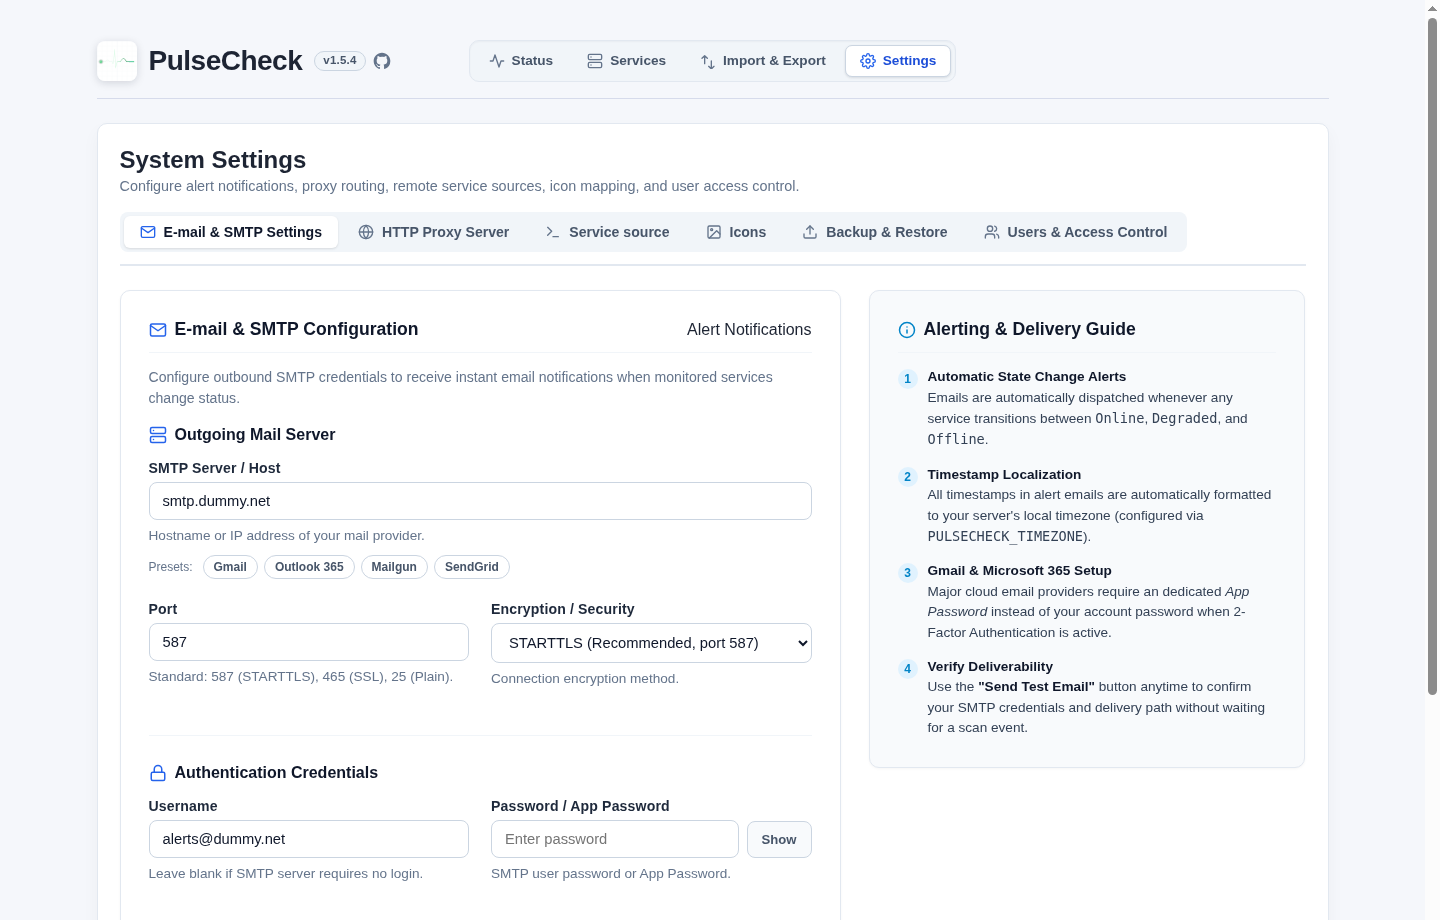
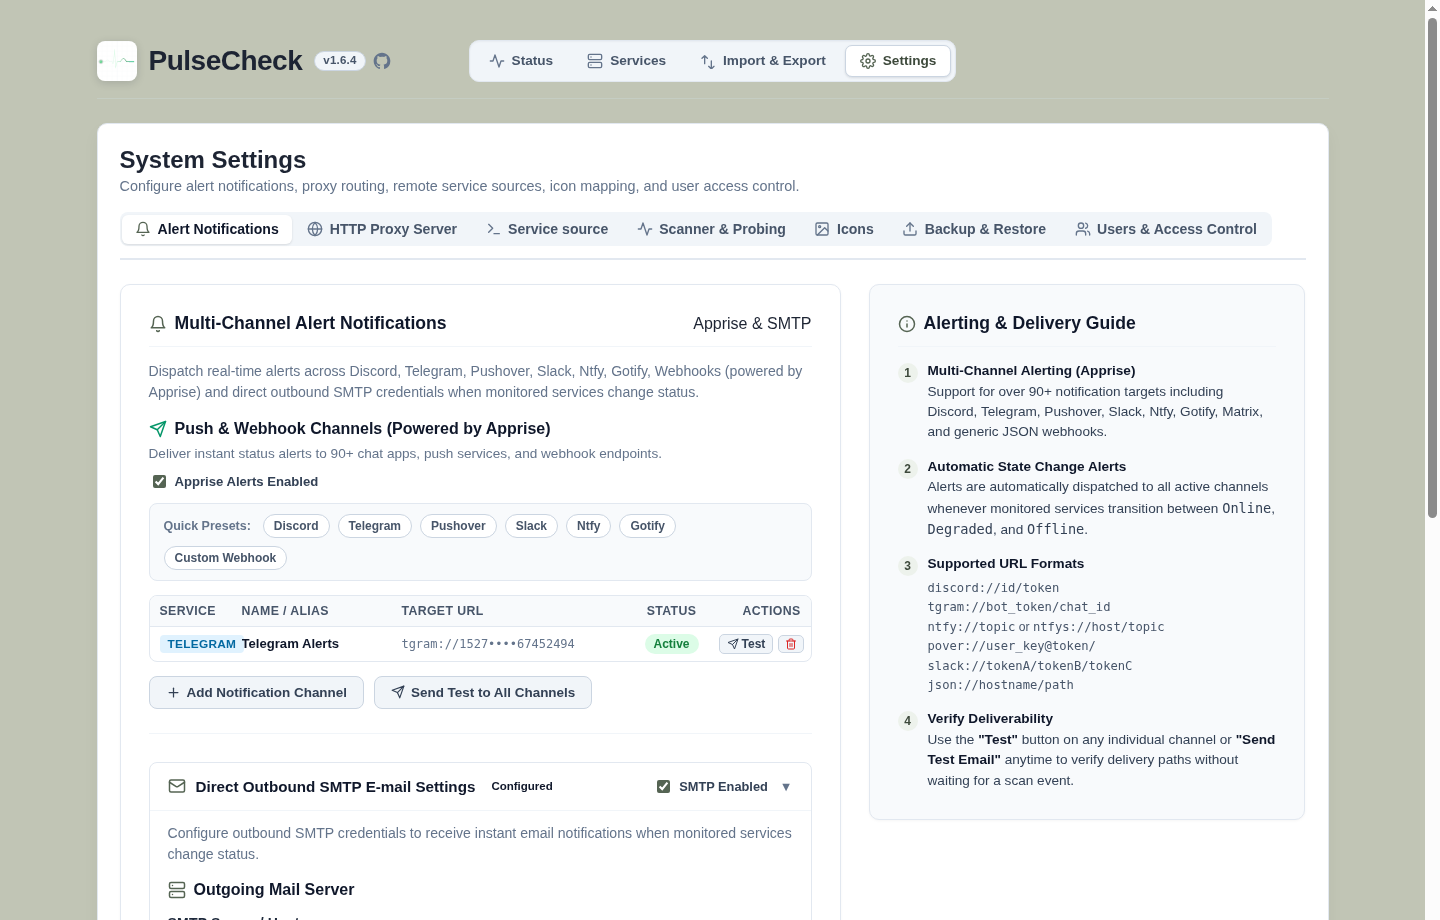
docs: update documentation, screenshots, and feature descriptions for recent UI and alert enhancements

diff --git a/services/notifications.py b/services/notifications.py
@@ -72,15 +72,15 @@ def send_email(
 </head>
 <body style="margin: 0; padding: 24px 16px; font-family: -apple-system, BlinkMacSystemFont, 'Segoe UI', Roboto, Helvetica, Arial, sans-serif; background-color: #f5f7fb; color: #1d2433;">
   <div style="max-width: 600px; margin: 0 auto; background: #ffffff; border-radius: 12px; border: 1px solid #c5cdc3; overflow: hidden; box-shadow: 0 4px 12px rgba(0, 0, 0, 0.05);">
-    <div style="background: #0f172a; padding: 16px 24px;">
+    <div style="background: #556453; padding: 16px 24px;">
       <table cellpadding="0" cellspacing="0" border="0" style="vertical-align: middle;">
         <tr>
           <td width="28" style="width: 28px; vertical-align: middle; padding-right: 10px;">
-            <img src="cid:pulsecheck_logo" alt="PulseCheck Logo" width="28" height="28" style="display: block; width: 28px !important; height: 28px !important; max-width: 28px !important; max-height: 28px !important; border-radius: 6px;" />
+            <img src="cid:pulsecheck_logo" alt="PulseCheck Logo" width="28" height="28" style="display: block; width: 28px !important; height: 28px !important; max-width: 28px !important; max-height: 28px !important; border-radius: 6px; background: #ffffff; padding: 2px; box-sizing: border-box;" />
           </td>
           <td style="vertical-align: middle;">
             <span style="color: #ffffff; font-size: 18px; font-weight: 700; letter-spacing: -0.3px; vertical-align: middle;">PulseCheck</span>
-            <span style="display: inline-block; margin-left: 8px; font-size: 11px; font-weight: 600; color: #94a3b8; background: rgba(255, 255, 255, 0.1); border: 1px solid rgba(255, 255, 255, 0.15); padding: 2px 6px; border-radius: 4px; vertical-align: middle;">v{APP_VERSION}</span>
+            <span style="display: inline-block; margin-left: 8px; font-size: 11px; font-weight: 600; color: #ffffff; background: rgba(0, 0, 0, 0.18); border: 1px solid rgba(255, 255, 255, 0.25); padding: 2px 6px; border-radius: 4px; vertical-align: middle;">v{APP_VERSION}</span>
           </td>
         </tr>
       </table>
@@ -468,7 +468,7 @@ def send_state_change_notification(changes: list[dict]) -> tuple[bool, str]:
 
             # Service name header with optional web URL
             if web_url:
-                svc_title_html = f'<a href="{web_url}" target="_blank" rel="noopener noreferrer" style="font-size: 16px; font-weight: 700; color: #556453; text-decoration: none; margin-right: 8px; vertical-align: middle;">{target_name}</a>'
+                svc_title_html = f'<a href="{web_url}" target="_blank" rel="noopener noreferrer" style="font-size: 16px; font-weight: 700; color: #3d493b; text-decoration: none; margin-right: 8px; vertical-align: middle;">{target_name}</a>'
             else:
                 svc_title_html = f'<strong style="font-size: 16px; color: #0f172a; margin-right: 8px; vertical-align: middle;">{target_name}</strong>'
 
@@ -525,15 +525,15 @@ def send_state_change_notification(changes: list[dict]) -> tuple[bool, str]:
 </head>
 <body style="margin: 0; padding: 24px 16px; font-family: -apple-system, BlinkMacSystemFont, 'Segoe UI', Roboto, Helvetica, Arial, sans-serif; background-color: #f5f7fb; color: #1d2433;">
   <div style="max-width: 600px; margin: 0 auto; background: #ffffff; border-radius: 12px; border: 1px solid #c5cdc3; overflow: hidden; box-shadow: 0 4px 12px rgba(0, 0, 0, 0.05);">
-    <div style="background: #0f172a; padding: 16px 24px;">
+    <div style="background: #556453; padding: 16px 24px;">
       <table cellpadding="0" cellspacing="0" border="0" style="vertical-align: middle;">
         <tr>
           <td width="28" style="width: 28px; vertical-align: middle; padding-right: 10px;">
-            <img src="cid:pulsecheck_logo" alt="PulseCheck Logo" width="28" height="28" style="display: block; width: 28px !important; height: 28px !important; max-width: 28px !important; max-height: 28px !important; border-radius: 6px;" />
+            <img src="cid:pulsecheck_logo" alt="PulseCheck Logo" width="28" height="28" style="display: block; width: 28px !important; height: 28px !important; max-width: 28px !important; max-height: 28px !important; border-radius: 6px; background: #ffffff; padding: 2px; box-sizing: border-box;" />
           </td>
           <td style="vertical-align: middle;">
             <span style="color: #ffffff; font-size: 18px; font-weight: 700; letter-spacing: -0.3px; vertical-align: middle;">PulseCheck</span>
-            <span style="display: inline-block; margin-left: 8px; font-size: 11px; font-weight: 600; color: #94a3b8; background: rgba(255, 255, 255, 0.1); border: 1px solid rgba(255, 255, 255, 0.15); padding: 2px 6px; border-radius: 4px; vertical-align: middle;">v{APP_VERSION}</span>
+            <span style="display: inline-block; margin-left: 8px; font-size: 11px; font-weight: 600; color: #ffffff; background: rgba(0, 0, 0, 0.18); border: 1px solid rgba(255, 255, 255, 0.25); padding: 2px 6px; border-radius: 4px; vertical-align: middle;">v{APP_VERSION}</span>
           </td>
         </tr>
       </table>
@@ -544,7 +544,7 @@ def send_state_change_notification(changes: list[dict]) -> tuple[bool, str]:
       <p style="margin: 0 0 16px 0; font-size: 14px; color: #334155;">The following <strong>{count}</strong> service{'s have' if count > 1 else ' has'} changed state since the previous scan:</p>
       {service_cards_str}
       <div style="margin-top: 20px; text-align: center;">
-        <a href="{get_status_url()}" style="display: inline-block; background: #1145d6; color: #ffffff; text-decoration: none; padding: 10px 20px; border-radius: 6px; font-weight: 600; font-size: 14px;">View Live Status</a>
+        <a href="{get_status_url()}" style="display: inline-block; background: #556453; color: #ffffff; text-decoration: none; padding: 10px 20px; border-radius: 6px; font-weight: 600; font-size: 14px;">View Live Status</a>
       </div>
     </div>
     <div style="background: #f8fafc; padding: 14px 24px; border-top: 1px solid #e2e8f0; font-size: 12px; color: #64748b; text-align: center; line-height: 1.5;">

diff --git a/scripts/capture_screenshots.py b/scripts/capture_screenshots.py
@@ -160,11 +160,14 @@ env = os.environ.copy()
 env["PULSECHECK_HEADLESS"] = "1"
 env["PULSECHECK_DB_PATH"] = DEMO_DB
 env["PULSECHECK_PORT"] = "8189"
+env["PULSECHECK_SCAN_RETRIES"] = "0"
+env["PULSECHECK_SCAN_RETRY_INTERVAL"] = "0"
+env["PULSECHECK_SCAN_WORKERS"] = "20"
 flask_proc = subprocess.Popen([sys.executable, "app.py"], cwd=BASE_DIR, env=env, stdout=subprocess.DEVNULL, stderr=subprocess.DEVNULL)
-time.sleep(2.5)
+time.sleep(2.0)
 
 # Wait for Flask
-for _ in range(20):
+for _ in range(30):
     try:
         with urllib.request.urlopen("http://127.0.0.1:8189/status") as r:
             if r.status == 200:
@@ -172,6 +175,49 @@ for _ in range(20):
                 break
     except Exception:
         time.sleep(0.5)
+
+# Wait for initial scan / startup veil to complete
+print("Waiting for initial scan / startup veil to finish...")
+for _ in range(80):
+    try:
+        with urllib.request.urlopen("http://127.0.0.1:8189/status/check-state") as r:
+            if r.status == 200:
+                data = json.loads(r.read().decode())
+                if not data.get("is_initial_scan") and not data.get("is_scanning"):
+                    print("Initial scan completed and startup veil is dismissed!")
+                    break
+    except Exception:
+        pass
+    time.sleep(0.5)
+
+# Seed latest_port_checks and last_scan_completed_at after initial scan completes
+# so dashboard & services display realistic live statuses without being overwritten
+conn = sqlite3.connect(DEMO_DB)
+c = conn.cursor()
+c.execute("DELETE FROM latest_port_checks")
+c.execute("SELECT id, port_protocol FROM services WHERE paused = 0")
+for sid, pp in c.fetchall():
+    ports = json.loads(pp) if pp else []
+    for p_info in ports:
+        p_num = p_info.get("port")
+        c.execute(
+            "INSERT INTO latest_port_checks (service_id, port, is_online, status, last_response_ms, checked_at) "
+            "VALUES (?, ?, 1, 'online', 24, datetime('now'))",
+            (sid, p_num)
+        )
+# Set beszel-lenovo to degraded
+c.execute("SELECT id FROM services WHERE name = 'beszel-lenovo.dummy.net'")
+row = c.fetchone()
+if row:
+    c.execute("UPDATE latest_port_checks SET status = 'degraded', last_response_ms = 412 WHERE service_id = ?", (row[0],))
+# Set camera to offline
+c.execute("SELECT id FROM services WHERE name = 'camera.dummy.net'")
+row = c.fetchone()
+if row:
+    c.execute("UPDATE latest_port_checks SET status = 'offline', is_online = 0, last_response_ms = NULL WHERE service_id = ?", (row[0],))
+c.execute("INSERT OR REPLACE INTO settings (key, value) VALUES ('last_scan_completed_at', datetime('now'))")
+conn.commit()
+conn.close()
 
 # 3. Launch Chrome Headless via Flatpak
 chrome_cmd = [
@@ -218,13 +264,36 @@ try:
             if resp.get("id") == payload["id"]:
                 return resp.get("result")
 
+    def wait_for_veil(max_wait=15.0):
+        """Ensure #startup-veil modal is completely absent before taking screenshot."""
+        start = time.time()
+        while time.time() - start < max_wait:
+            res = send_cmd("Runtime.evaluate", {
+                "expression": "Boolean(document.getElementById('startup-veil'))"
+            })
+            has_veil = res.get("result", {}).get("value", False) if res else False
+            if not has_veil:
+                return True
+            send_cmd("Runtime.evaluate", {
+                "expression": "if (typeof dismissVeil === 'function') dismissVeil();"
+            })
+            time.sleep(0.3)
+        # Force remove if still lingering
+        send_cmd("Runtime.evaluate", {
+            "expression": "var v = document.getElementById('startup-veil'); if (v) v.remove();"
+        })
+        time.sleep(0.4)
+        return True
+
     def capture(name, path, js_action=None, wait=1.5, height=920):
         print(f"Capturing {name} ({path})...")
         send_cmd("Page.navigate", {"url": f"http://127.0.0.1:8189{path}"})
         time.sleep(wait)
+        wait_for_veil()
         if js_action:
             send_cmd("Runtime.evaluate", {"expression": js_action})
             time.sleep(0.6)
+            wait_for_veil()
         res = send_cmd("Page.captureScreenshot", {
             "format": "png",
             "clip": {"x": 0, "y": 0, "width": 1440, "height": height, "scale": 1}
@@ -241,34 +310,6 @@ try:
         "mobile": False,
     })
     send_cmd("Page.enable")
-
-    # Seed latest_port_checks and last_scan_completed_at so dashboard & services display realistic live statuses
-    conn = sqlite3.connect(DEMO_DB)
-    c = conn.cursor()
-    c.execute("DELETE FROM latest_port_checks")
-    c.execute("SELECT id, port_protocol FROM services WHERE paused = 0")
-    for sid, pp in c.fetchall():
-        ports = json.loads(pp) if pp else []
-        for p_info in ports:
-            p_num = p_info.get("port")
-            c.execute(
-                "INSERT INTO latest_port_checks (service_id, port, is_online, status, last_response_ms, checked_at) "
-                "VALUES (?, ?, 1, 'online', 24, datetime('now'))",
-                (sid, p_num)
-            )
-    # Set beszel-lenovo to degraded
-    c.execute("SELECT id FROM services WHERE name = 'beszel-lenovo.dummy.net'")
-    row = c.fetchone()
-    if row:
-        c.execute("UPDATE latest_port_checks SET status = 'degraded', last_response_ms = 412 WHERE service_id = ?", (row[0],))
-    # Set camera to offline
-    c.execute("SELECT id FROM services WHERE name = 'camera.dummy.net'")
-    row = c.fetchone()
-    if row:
-        c.execute("UPDATE latest_port_checks SET status = 'offline', is_online = 0, last_response_ms = NULL WHERE service_id = ?", (row[0],))
-    c.execute("INSERT OR REPLACE INTO settings (key, value) VALUES ('last_scan_completed_at', datetime('now'))")
-    conn.commit()
-    conn.close()
 
     # 1. Live Status Dashboard
     # Expand first card to showcase the discovery metadata and port chips with protocol micro-icons

diff --git a/routes/home.py b/routes/home.py
@@ -385,7 +385,7 @@ def preview_email():
             svc_img_html = f'<img src="{svc_icon_url}" alt="" width="22" height="22" style="width: 22px; height: 22px; max-width: 22px; max-height: 22px; object-fit: contain; vertical-align: middle; margin-right: 8px; border-radius: 4px;" />'
 
         if web_url:
-            svc_title_html = f'<a href="{web_url}" target="_blank" rel="noopener noreferrer" style="font-size: 16px; font-weight: 700; color: #556453; text-decoration: none; margin-right: 8px; vertical-align: middle;">{target_name}</a>'
+            svc_title_html = f'<a href="{web_url}" target="_blank" rel="noopener noreferrer" style="font-size: 16px; font-weight: 700; color: #3d493b; text-decoration: none; margin-right: 8px; vertical-align: middle;">{target_name}</a>'
         else:
             svc_title_html = f'<strong style="font-size: 16px; color: #0f172a; margin-right: 8px; vertical-align: middle;">{target_name}</strong>'
 
@@ -442,15 +442,15 @@ def preview_email():
 </head>
 <body style="margin: 0; padding: 32px 16px; font-family: -apple-system, BlinkMacSystemFont, 'Segoe UI', Roboto, Helvetica, Arial, sans-serif; background-color: #f1f5f9; color: #1d2433;">
   <div style="max-width: 600px; margin: 0 auto; background: #ffffff; border-radius: 12px; border: 1px solid #c5cdc3; overflow: hidden; box-shadow: 0 4px 16px rgba(0, 0, 0, 0.06);">
-    <div style="background: #0f172a; padding: 16px 24px;">
+    <div style="background: #556453; padding: 16px 24px;">
       <table cellpadding="0" cellspacing="0" border="0" style="vertical-align: middle;">
         <tr>
           <td width="28" style="width: 28px; vertical-align: middle; padding-right: 10px;">
-            <img src="{logo_src}" alt="PulseCheck Logo" width="28" height="28" style="display: block; width: 28px !important; height: 28px !important; max-width: 28px !important; max-height: 28px !important; border-radius: 6px;" />
+            <img src="{logo_src}" alt="PulseCheck Logo" width="28" height="28" style="display: block; width: 28px !important; height: 28px !important; max-width: 28px !important; max-height: 28px !important; border-radius: 6px; background: #ffffff; padding: 2px; box-sizing: border-box;" />
           </td>
           <td style="vertical-align: middle;">
             <span style="color: #ffffff; font-size: 18px; font-weight: 700; letter-spacing: -0.3px; vertical-align: middle;">PulseCheck</span>
-            <span style="display: inline-block; margin-left: 8px; font-size: 11px; font-weight: 600; color: #94a3b8; background: rgba(255, 255, 255, 0.1); border: 1px solid rgba(255, 255, 255, 0.15); padding: 2px 6px; border-radius: 4px; vertical-align: middle;">v{APP_VERSION}</span>
+            <span style="display: inline-block; margin-left: 8px; font-size: 11px; font-weight: 600; color: #ffffff; background: rgba(0, 0, 0, 0.18); border: 1px solid rgba(255, 255, 255, 0.25); padding: 2px 6px; border-radius: 4px; vertical-align: middle;">v{APP_VERSION}</span>
           </td>
         </tr>
       </table>
@@ -461,7 +461,7 @@ def preview_email():
       <p style="margin: 0 0 16px 0; font-size: 14px; color: #334155;">The following <strong>{count}</strong> services have changed state since the previous scan:</p>
       {service_cards_str}
       <div style="margin-top: 20px; text-align: center;">
-        <a href="{get_status_url()}" style="display: inline-block; background: #1145d6; color: #ffffff; text-decoration: none; padding: 10px 20px; border-radius: 6px; font-weight: 600; font-size: 14px;">View Live Status</a>
+        <a href="{get_status_url()}" style="display: inline-block; background: #556453; color: #ffffff; text-decoration: none; padding: 10px 20px; border-radius: 6px; font-weight: 600; font-size: 14px;">View Live Status</a>
       </div>
     </div>
     <div style="background: #f8fafc; padding: 14px 24px; border-top: 1px solid #e2e8f0; font-size: 12px; color: #64748b; text-align: center; line-height: 1.5;">

diff --git a/README.md b/README.md
@@ -23,7 +23,7 @@ Real-time monitoring overview displaying service availability, countdown timer t
 
 - **Enlarged Overall Health Indicator**: Prominent header status badge with dedicated status SVGs (**✓ GREEN = ALL ONLINE**, **⚠ ORANGE = SOME DEGRADED**, **✕ RED = SOME OFFLINE**), sized 50% larger with dark contrasting borders.
 - **Next Check Countdown**: Digital countdown timer updated every second showing time remaining until the next scan run.
-- **Status Filter Pills**: Quick one-click state filtering (**All**, **Online**, **Degraded**, **Offline**, **Skipped**) with live count badges and dark borders.
+- **Status Filter Pills**: Quick one-click state filtering (**Cushing Green = All**, **Green = Online**, **Orange = Degraded**, **Red = Offline**, **Gray = Skipped**) with live count badges and crisp borders.
 - **Sort & Collapse Controls**: One-click sorting by **Service** or **Status** severity, plus an **Expand all / Collapse all** (`⤢` / `⤡`) toggle button with persistent session memory.
 - **Expandable Service Tiles with Network Discovery**: Click any tile to reveal resolved **IP address**, Layer 2 **MAC address**, and **Manufacturer name with brand logo** alongside monitored port chips.
 - **Clean Protocol Micro-Icons**: Status port chips feature protocol micro-icons (`🌐 HTTP`, `🔒 HTTPS`, `🔌 Socket`, `⚡ UDP`, `ﮩ٨ـ ICMP Ping`) with clean status color coding, keeping cards clutter-free without repetitive status text.
@@ -43,6 +43,7 @@ Centralized directory for viewing and maintaining all monitored services with in
   - 💬 **Speech Bubble**: Service comment or notes attached.
 - **Direct Application Web Links**: Services running web ports (HTTP/HTTPS) automatically render service names as clickable links navigating straight to the application web interface.
 - **Redesigned Seamless Toolbar & Sticky Headers**: Compact toolbar unified directly above the table structure with sticky header alignment, keeping column filters and bulk actions accessible across long lists.
+- **Interactive Resizable Columns**: Drag column divider handles to customize table columns to your preferred width, with automatic local persistence across sessions.
 - **Interactive Column Filters**: Real-time filtering by service name, hardware/network attributes (IP, MAC, vendor), paused state, and port numbers.
 - **Per-Port Details on Hover**: Hovering over any entry in the **PORTS** column displays the individual port configuration including protocol, per-port Match string, and URL path.
 - **Bulk Port Operations**: Batch add or remove ports across multiple selected services simultaneously.
@@ -66,18 +67,19 @@ Dedicated tabbed workflow for adding and editing services with automated network
 - **Tabbed Port Inspector**: Switch between individual port tabs or the "All Ports" summary table with status indicators, result codes, latency, and local timestamps.
 - **Response Token Highlighting**: Scrollable dark console viewer displaying HTTP headers and response body with matching tokens highlighted in real time.
 
-### 4. System Settings & SMTP Configuration
-Centralized settings for automated notification dispatch, test emails, HTTP proxy configuration, and encrypted backup/restore.
+### 4. System Settings, Multi-Channel Alerts & SMTP Configuration
+Centralized settings for automated notification dispatch, Apprise multi-channel alerts, test emails, HTTP proxy configuration, and encrypted backup/restore.
 
 <p align="center">
   <img src="docs/screenshots/settings.png" alt="System Settings and Alerts" width="100%">
 </p>
 
+- **Multi-Channel Alert Dispatch (Apprise)**: Out-of-the-box integration dispatching real-time notifications to **Discord**, **Telegram**, **Pushover**, **Slack**, **Ntfy**, **Gotify**, and custom HTTP webhooks with individual test buttons and instant status badges.
 - **Responsive Dual-Column Grid Layout**: Structured card layout pairing configuration panels with integrated contextual helper guides (Alerting & Delivery Guide, OIDC Provider Status, Backup & Encryption Guide) for optimal screen real estate.
 - **One-Click Mail Provider Presets**: Instant configuration presets for popular email services (**Gmail**, **Outlook 365**, **Mailgun**, **SendGrid**) prefilling recommended ports and encryption protocols.
 - **Outgoing SMTP Server**: Support for STARTTLS (port 587), SSL/TLS (port 465), or plain authentication with password protection.
 - **Automatic State Change Alerts**: Dispatches notifications when services transition between states (e.g. Online &rarr; Degraded, Degraded &rarr; Offline).
-- **Send Test Email**: Built-in verification tool to validate SMTP credentials and delivery path immediately.
+- **Send Test Notifications**: Built-in verification tools to validate SMTP credentials and Apprise webhook delivery immediately.
 - **HTTP Proxy Server**: Centralized proxy configuration with per-service routing toggles.
 - **Password-Protected Encrypted Backup & Restore**: AES-256-GCM encrypted backup of all system settings and authorized user registries with passphrase protection and automatic server restart.
 
@@ -91,6 +93,7 @@ Protect administrative views with your corporate or self-hosted identity provide
 - **Public Status Dashboard by Default**: Live health indicators, service statuses, and check states remain publicly readable without requiring a login.
 - **Protected Administrative Endpoints**: Clicks on **Services**, **Import & Export**, or **Settings** seamlessly redirect unauthenticated visitors to your OIDC provider login and return them to their destination upon successful sign-in.
 - **Strict Authorization Registry (No Auto-Provisioning)**: Only explicitly approved accounts listed in PulseCheck's **Authorized Users** table are granted access.
+- **Signed-in User Badge**: Active user identity rendered in the top navigation header as an elegant system grey badge matching the application's clean design.
 - **Configurable Claim Matching**: Match incoming tokens against user records using configurable claims (default `email`, or `preferred_username`, `sub`).
 - **User Administration**: Add, update, and revoke authorized users directly from the Settings interface.
 - **Configurable Callback URL & SSL Verification**: Supports custom callback URIs (`PULSECHECK_OIDC_REDIRECT_URI`) and internal private PKI/CA certificates with configurable `PULSECHECK_OIDC_SSL_VERIFY` (`true`, path to custom internal CA PEM file, or `false`).
@@ -181,7 +184,7 @@ Rapid onboarding and data portability through raw text blocks and standard CSV f
     - **Last Scheduled Check**: Server local timezone formatted timestamp of the most recent background run.
     - **Next Check Countdown**: Digital countdown timer updated every second showing time remaining until the next scan.
     - **Automatic Screen Refresh**: Seamlessly polls and reloads the screen as soon as the scheduled background run finishes and database records are updated.
-  - **Color-Coded Status Filter Pills**: Two-tone shaded pills with dark outlines for quick filtering and live counts: **BLUE = ALL**, **GREEN = ONLINE**, **ORANGE = DEGRADED**, **RED = OFFLINE**, and **GRAY = SKIPPED**.
+  - **Color-Coded Status Filter Pills**: Two-tone shaded pills with dark outlines for quick filtering and live counts: **CUSHING GREEN = ALL**, **GREEN = ONLINE**, **ORANGE = DEGRADED**, **RED = OFFLINE**, and **GRAY = SKIPPED**.
   - **Expand all / Collapse all Toggle**: Expand or collapse all service cards simultaneously with session persistence.
   - **Visual Protocol Port Badges**: Clean port pills with inline protocol symbols and status border/background styling.
   - **Discovered Host Details**: Compact display of IP address, MAC address, and manufacturer logo/name directly below service names.
@@ -367,7 +370,7 @@ PulseCheck uses [`aiohttp`](https://docs.aiohttp.org/) for high-throughput, non-
 
 ## Testing
 
-PulseCheck includes a comprehensive automated test suite (157 tests) covering OIDC authentication and authorization, user administration, encrypted backup/restore, settings persistence, database migrations, proxy tunneling, CSV import/export, live port diagnostics, template versioning, and automated health check workflows.
+PulseCheck includes a comprehensive automated test suite (207 tests) covering OIDC authentication and authorization, user administration, encrypted backup/restore, settings persistence, database migrations, proxy tunneling, CSV import/export, live port diagnostics, template versioning, and automated health check workflows.
 
 Run tests using Python's built-in `unittest` runner:
 
